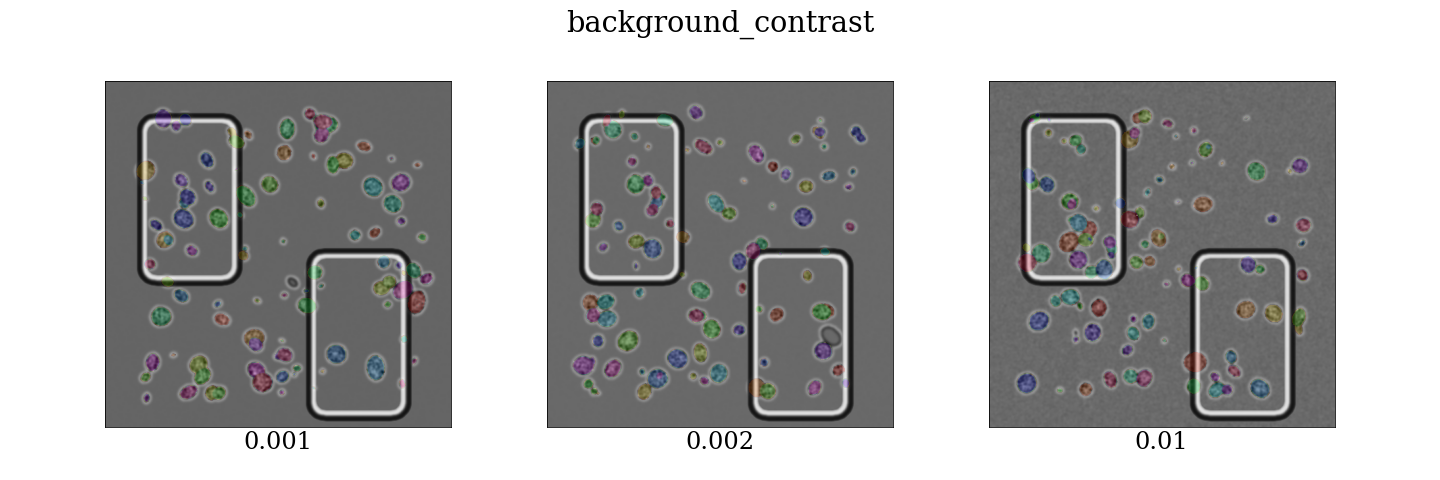
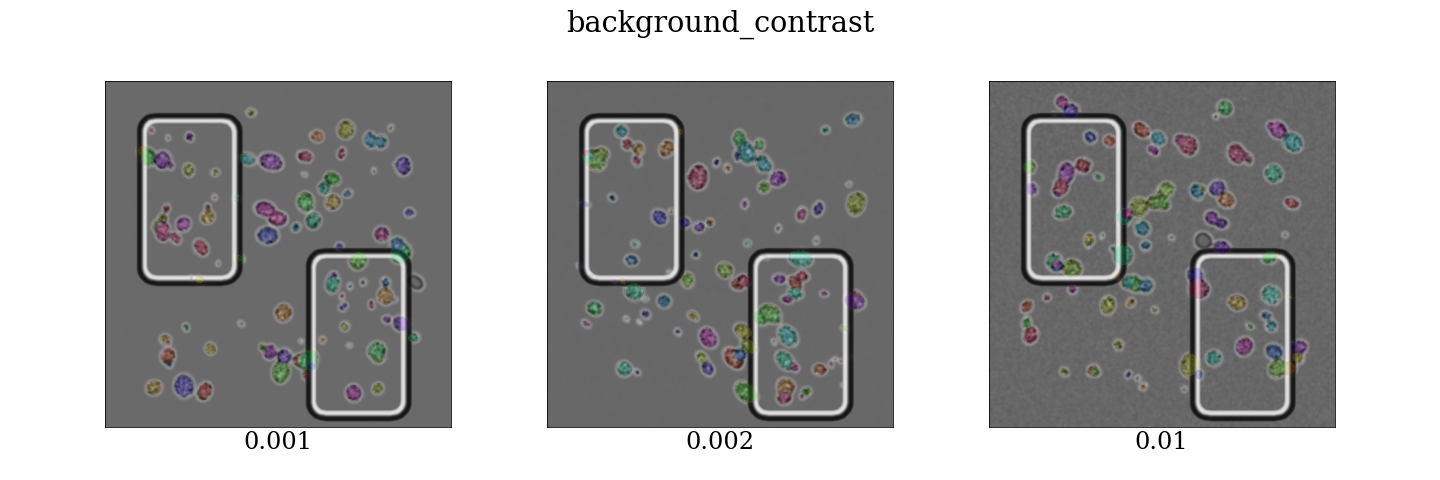
included example images in readme

diff --git a/Readme.md b/Readme.md
@@ -5,7 +5,9 @@
 
 
 
-# Use
+# Usage
+
+## Minimal example
 
 A minimal run to create synthetic brightfield images of
 yeast cells is by only specifying how many samples should
@@ -15,6 +17,8 @@ defaults.
     from syntheticyeastcells import create_samples
 
     images, labels = create_samples(100)
+
+## Example with all parameters
 
 Alternatively you can specify these parameters to tweak
 the properties of the images. This example shows the
@@ -61,7 +65,19 @@ default values
       p_white_outside=0.5
     )
 
-# Output
+## Example outputs for all parameters
+
+[n_cells_per_image](images/example-settings-n_cells_per_image.png)
+[min_distance_boundary](images/example-settings-min_distance_boundary.png)
+[r0_range](images/example-settings-r0_range.png)
+[r1_factor_range](images/example-settings-r1_factor_range.png)
+[spatial_blur_std](images/example-settings-spatial_blur_std.png)
+[background_intensity](images/example-settings-background_intensity.png)
+[background_contrast](images/example-settings-background_contrast.png)
+[core_contrast](images/example-settings-core_contrast.png)
+[p_white_outside](images/example-settings-p_white_outside.png)
+
+## Output
 
 `images` is a $n_images \times height \times width \times 3$ greyscale stack of images encoded as uint8,
 and `labels` is a $n_images \times height \times width$ stack of labels encoded as uint32. Each cell
@@ -82,7 +98,7 @@ is encoded as a different integer and the background is encoded as `0`.
       axis.imshow(image)
       axis.imshow(label)
 
-# Create a dataset suitable for detectron2
+## Create a dataset suitable for detectron2
 
     from syntheticyeastcells.detectron2 import create_dataset
 
@@ -113,3 +129,4 @@ is encoded as a different integer and the background is encoded as `0`.
 
       # show a progressbar
       progressbar=True)
+
